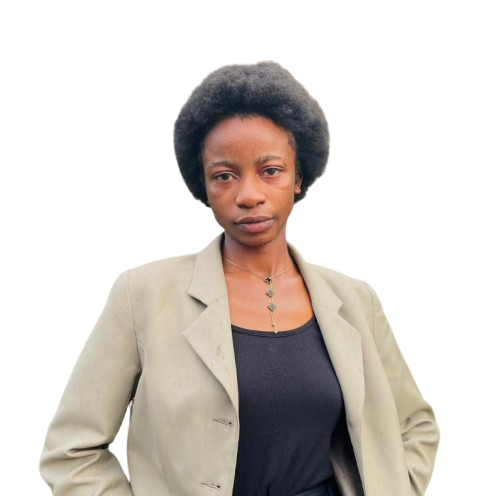
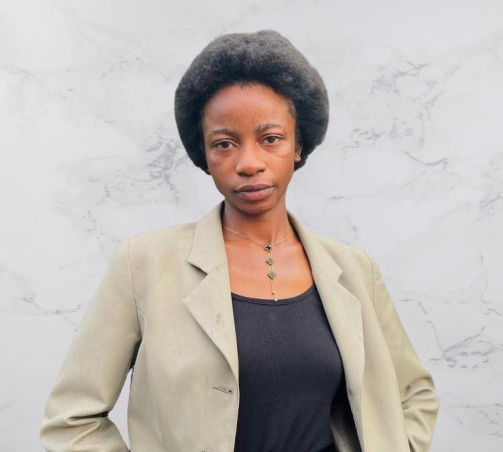
update alumnis images

diff --git a/src/pages/About.tsx b/src/pages/About.tsx
@@ -8,13 +8,14 @@ import TeamAvatar from "../components/ui/TeamAvatar";
 import bright from "../assets/images/team/bright.png";
 import herve from "../assets/images/team/herve.jpg";
 import patricia from "../assets/images/team/patricia.png";
-import manasse from "../assets/images/team/manasse.jpg";
+import manasse from "../assets/images/team/manasse.png";
 import fadhili from "../assets/images/team/fadhili.png";
 import jansen from "../assets/images/team/jansen.png";
 import breeder from "../assets/images/team/breeder.png";
 import guylaine from "../assets/images/team/guylaine.png";
 import sylvie from "../assets/images/team/sylvie.png";
 import marie from "../assets/images/team/marie.png";
+import authentic from "../assets/images/team/authenctic.png";
 
 /* =======================
    TYPES
@@ -91,7 +92,7 @@ const teamGroups: TeamGroup[] = [
     members: [
       {
         name: "Guylaine Kashingi",
-        role: "English Instructor",
+        role: "English Instructor & Head of Teachers Practical Sessions",
         avatar: guylaine,
       },
       {
@@ -106,12 +107,12 @@ const teamGroups: TeamGroup[] = [
       },
       {
         name: "Daniel Akilimali",
-        role: "Alumni Program Assistant & English Instructor",
+        role: "English Instructor & Alumni Program Assistant",
         avatar: "",
       },
       {
         name: "Precious Heshima",
-        role: "Alumni Program Assistant & English Instructor",
+        role: "English Instructor & Alumni Program Assistant",
         avatar: "",
       },
     ],
@@ -121,9 +122,9 @@ const teamGroups: TeamGroup[] = [
     icon: "bi-globe2",
     members: [
       {
-        name: "Authentique Binombe",
+        name: "Authentic Binombe",
         role: "Spanish & Chinese Instructor / Head of Cultural Activities",
-        avatar: "",
+        avatar: authentic,
       },
       {
         name: "Breeder Sumbwa",
@@ -201,7 +202,7 @@ function TeamSection() {
         <TeamAvatar
           name={member.name}
           avatar={member.avatar}
-          className="mx-auto mb-4 ring-brand-accent/30 border-2 border-brand-accent/30"
+          className="mx-auto mb-4"
         />
 
         <h3 className="text-xl font-semibold text-brand-secondary">

diff --git a/src/components/home/Testimonials.tsx b/src/components/home/Testimonials.tsx
@@ -1,4 +1,8 @@
 import { useEffect, useState } from "react";
+import benedict from "../../assets/images/students/benedicte.png";
+import bruno from "../../assets/images/students/bruno.png";
+import anifa from "../../assets/images/students/anifa.png";
+import marie from "../../assets/images/team/marie.png"
 
 export type Testimonial = {
   quote: string;
@@ -13,27 +17,27 @@ const testimonials: Testimonial[] = [
       "The English program gave me confidence to connect with international NGOs.",
     name: "Benedicte Nikuze",
     role: "Alumni · English graduate",
-    avatar: "",
-  },
-  {
-    quote:
-      "I started from zero in French and now I can hold real conversations.",
-    name: "Anifa Nsekuye",
-    role: "Student · French track",
-    avatar: "",
+    avatar: benedict,
   },
   {
     quote:
       "Computer Science fundamentals were explained clearly and practical.",
     name: "Bruno Usungu",
     role: "Student · Junior developer",
-    avatar: "",
+    avatar: bruno,
+  },
+  {
+    quote:
+      "I started from zero in French and now I can hold real conversations.",
+    name: "Anifa Nsekuye",
+    role: "Student · French track",
+    avatar: anifa,
   },
   {
     quote: "Make-up classes helped me start freelancing quickly.",
-    name: "Herve Mashukane",
+    name: "Marie Semba",
     role: "Alumni · Freelance artist",
-    avatar: "",
+    avatar: marie,
   },
 ];
 
@@ -113,7 +117,7 @@ export default function Testimonials() {
                 <img
                   src={t.avatar}
                   alt={t.name}
-                  className="h-14 w-14 md:h-16 md:w-16 rounded-full object-cover ring-2 ring-brand-accent/30"
+                  className="h-14 w-14 md:h-16 md:w-16 rounded-full object-cover ring-2 ring-brand-primary/50"
                 />
               </div>
 

diff --git a/src/components/ui/TeamAvatar.tsx b/src/components/ui/TeamAvatar.tsx
@@ -10,7 +10,7 @@ export default function TeamAvatar({ name, avatar, className }: Props) {
       <img
         src={avatar}
         alt={name}
-        className={`h-20 w-20 rounded-full object-cover border-2 border-white shadow-md ${className}`}
+        className={`h-20 w-20 rounded-full object-cover border-2 border-brand-primary/30 shadow-md ${className}`}
       />
     );
   }
